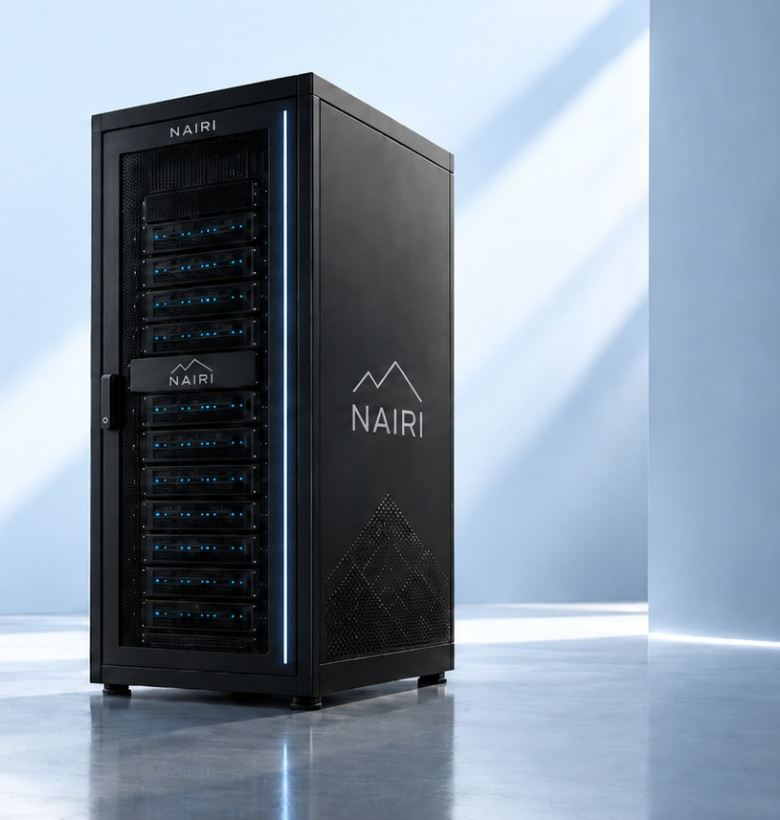
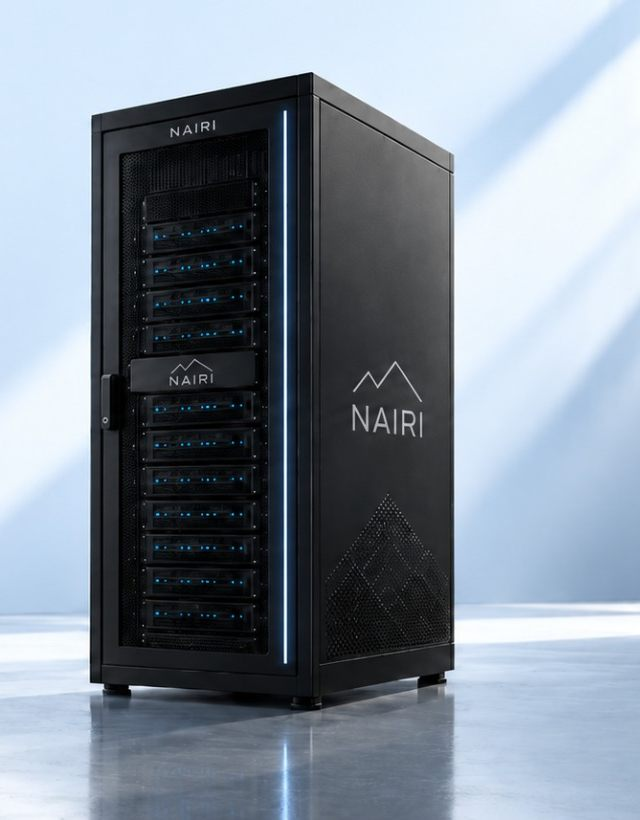
Update image

diff --git a/styles.css b/styles.css
@@ -114,14 +114,14 @@ h1, h3, p { margin: 0; }
 }
 .hero-img {
   position: absolute;
-  right: 0;
+  right: clamp(0px, 6vw, 120px);
   bottom: 0;
   height: 90%;
   width: auto;
   max-width: none;
-  -webkit-mask-image: linear-gradient(to right, transparent 0, #000 22%), linear-gradient(to bottom, transparent 0, #000 14%);
+  -webkit-mask-image: linear-gradient(to right, transparent 0, #000 22%, #000 84%, transparent 100%), linear-gradient(to bottom, transparent 0, #000 14%);
   -webkit-mask-composite: source-in;
-  mask-image: linear-gradient(to right, transparent 0, #000 22%), linear-gradient(to bottom, transparent 0, #000 14%);
+  mask-image: linear-gradient(to right, transparent 0, #000 22%, #000 84%, transparent 100%), linear-gradient(to bottom, transparent 0, #000 14%);
   mask-composite: intersect;
   animation: fade 1.4s ease-out both;
 }
@@ -263,6 +263,7 @@ h1, h3, p { margin: 0; }
   .hero-inner { padding-top: 140px; padding-bottom: 8px; }
   .hero-img {
     position: relative;
+    right: auto;
     order: 2;
     height: auto;
     width: 100%;

diff --git a/index.html b/index.html
@@ -34,7 +34,7 @@
 
   <main>
     <section class="hero">
-      <img class="hero-img" src="assets/rack.jpg" width="780" height="820"
+      <img class="hero-img" src="assets/rack.jpg" width="640" height="820"
            alt="NAIRI rack-scale AI system in a bright, sunlit room">
       <div class="wrap hero-inner">
         <p class="eyebrow">AI Infrastructure</p>
